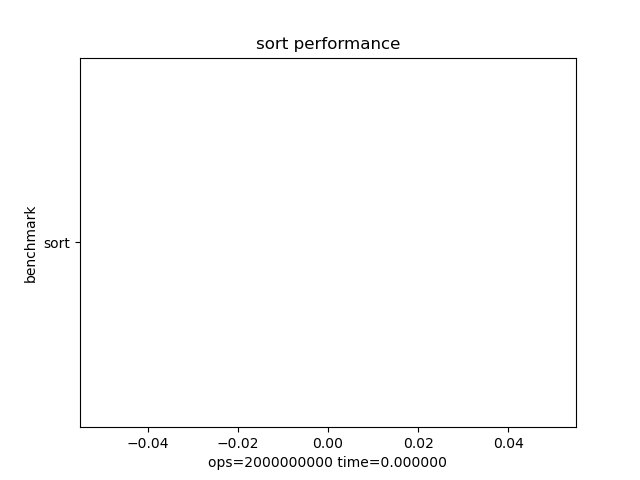
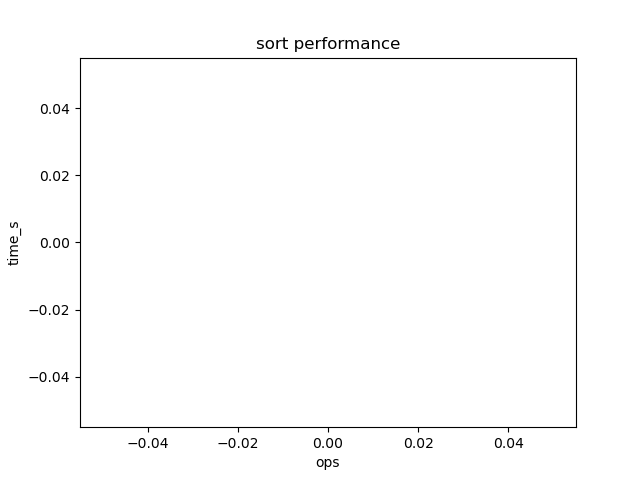
a point for integer and float

diff --git a/microbenchmarks/float_throughput.c b/microbenchmarks/float_throughput.c
@@ -15,6 +15,8 @@ int main() {
     clock_gettime(CLOCK_MONOTONIC, &t1);
     double elapsed = (t1.tv_sec - t0.tv_sec)
                      + (t1.tv_nsec - t0.tv_nsec) * 1e-9;
-    printf("ops=%llu time=%.6f\n", (unsigned long long)ITER * 2, elapsed);
+    // printf("ops=%llu time=%.6f\n", (unsigned long long)ITER * 2, elapsed);
+    printf("ops,time_s\n");
+    printf("%llu,%.6f\n", (unsigned long long)ITER * 2, elapsed);
     return 0;
 }

diff --git a/microbenchmarks/integer_throughput.c b/microbenchmarks/integer_throughput.c
@@ -15,6 +15,8 @@ int main() {
     clock_gettime(CLOCK_MONOTONIC, &t1);
     double elapsed = (t1.tv_sec - t0.tv_sec)
                      + (t1.tv_nsec - t0.tv_nsec) * 1e-9;
-    printf("ops=%llu time=%.6f\n", (unsigned long long)ITER * 2, elapsed);
+    // printf("ops=%llu time=%.6f\n", (unsigned long long)ITER * 2, elapsed);
+    printf("ops,time_s\n");
+    printf("%llu,%.6f\n", (unsigned long long)ITER * 2, elapsed);
     return 0;
 }

diff --git a/microbenchmarks/mem_latency.c b/microbenchmarks/mem_latency.c
@@ -22,7 +22,9 @@ int main() {
     clock_gettime(CLOCK_MONOTONIC, &t1);
     double elapsed = (t1.tv_sec - t0.tv_sec)
                      + (t1.tv_nsec - t0.tv_nsec) * 1e-9;
-    printf("accesses=%d time=%.6f\n", ITER, elapsed);
+    //printf("accesses=%d time=%.6f\n", ITER, elapsed);
+    printf("accesses,time_s\n");
+    printf("%d,%.6f\n", ITER, elapsed);
     free(buf);
     return 0;
 }

diff --git a/microbenchmarks/mem_bandwidth.c b/microbenchmarks/mem_bandwidth.c
@@ -13,7 +13,9 @@ int main() {
     clock_gettime(CLOCK_MONOTONIC, &t1);
     double elapsed = (t1.tv_sec - t0.tv_sec)
                      + (t1.tv_nsec - t0.tv_nsec) * 1e-9;
-    printf("bytes=%d time=%.6f\n", SIZE, elapsed);
+    // printf("bytes=%d time=%.6f\n", SIZE, elapsed);
+    printf("bytes,time_s\n");
+    printf("%d,%.6f\n", SIZE, elapsed);
     free(buf);
     return 0;
 }
